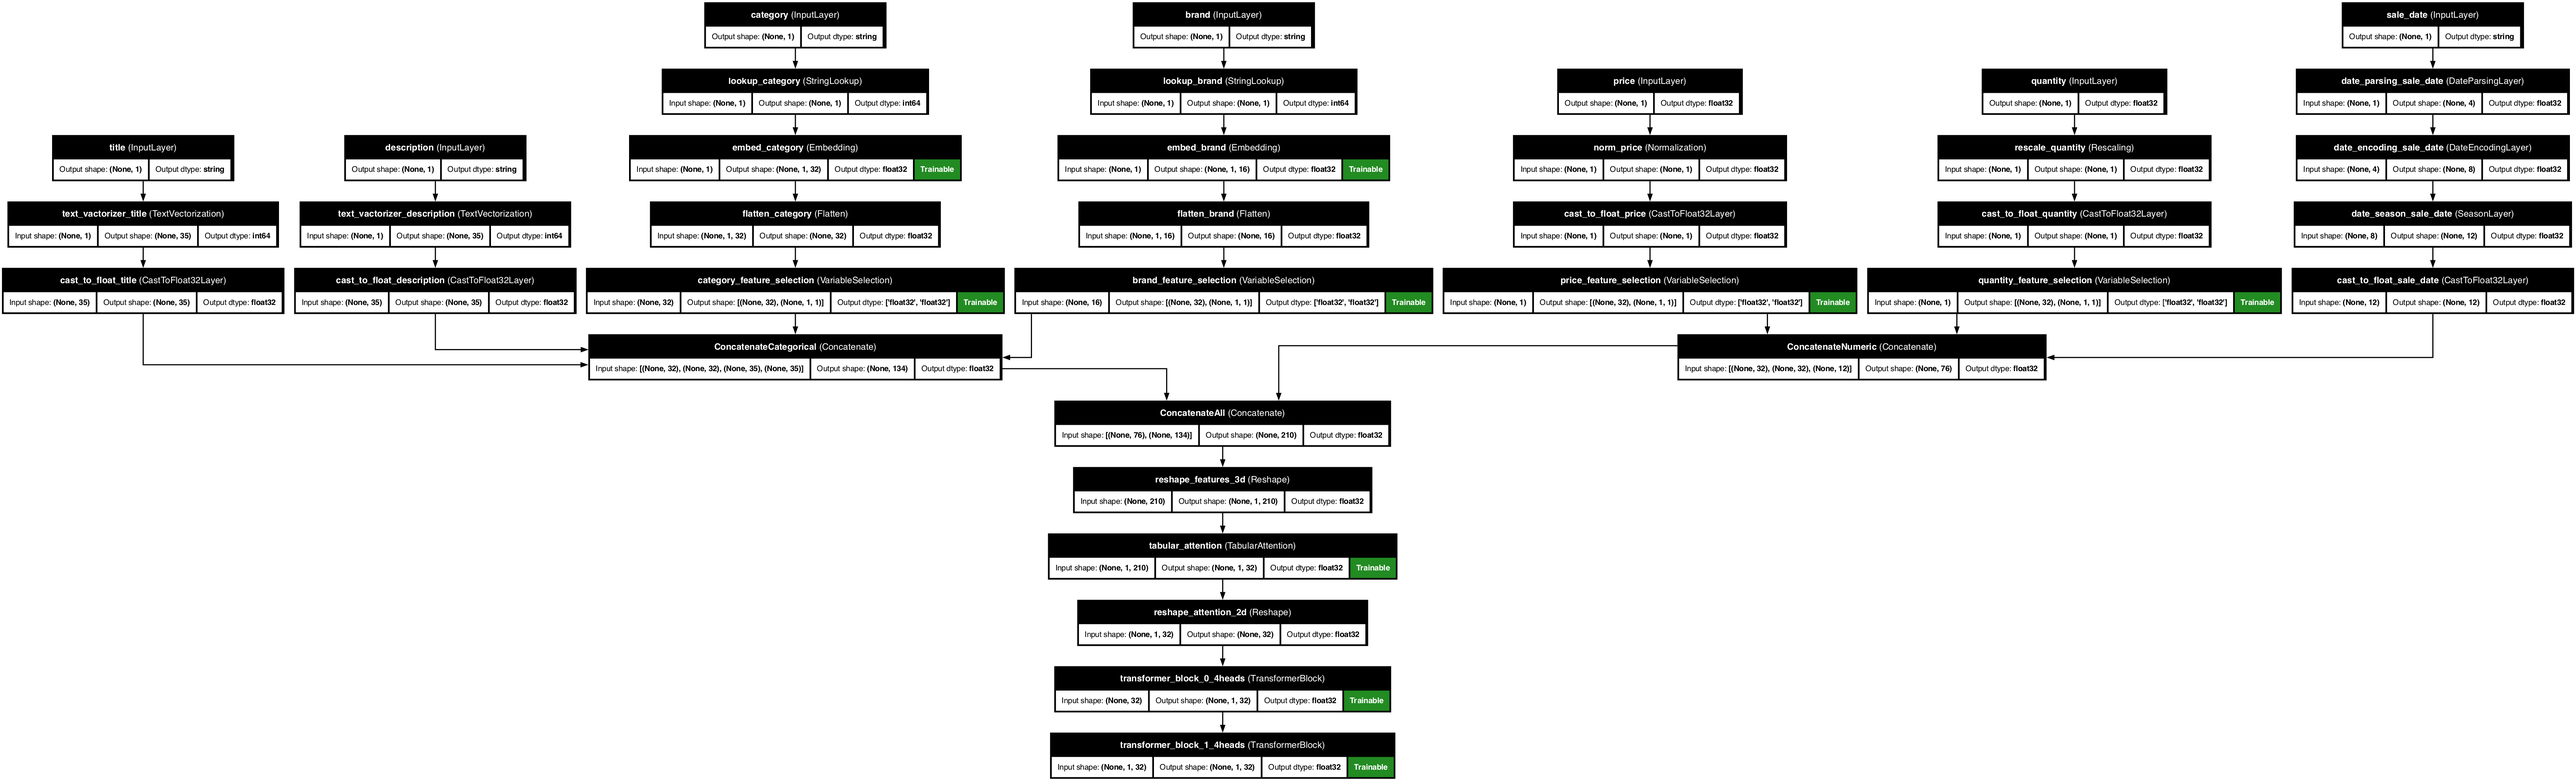
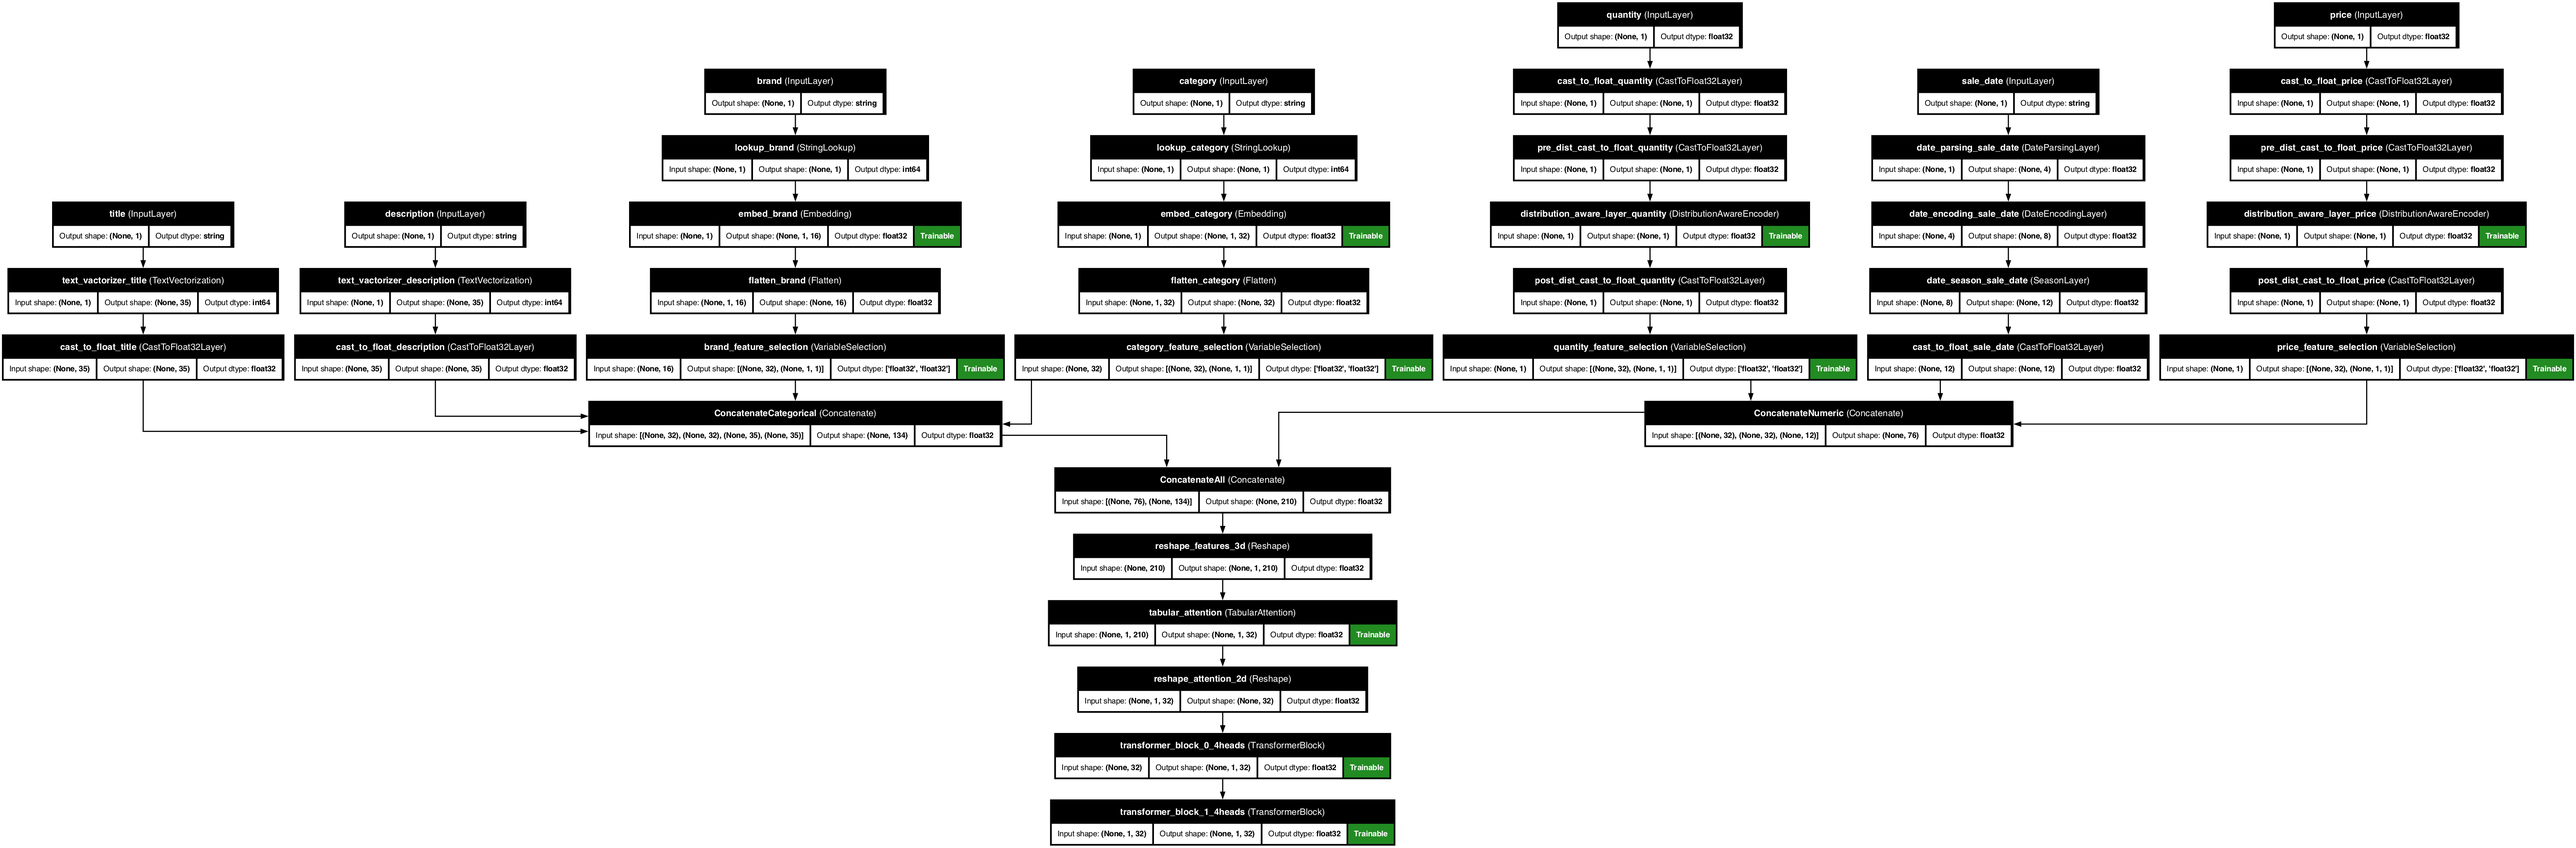
docs(KDP): added docs

Changed region(s): [[0.0, 0.0, 1.0, 0.9917]]

diff --git a/docs/distribution_aware_encoder.md b/docs/distribution_aware_encoder.md
@@ -66,11 +66,6 @@ The Distribution-Aware Encoder is an advanced preprocessing layer that automatic
     - Handled via rate parameter estimation
     - Detection: Integer values and variance≈mean
 
-13. **Weibull Distribution**
-    - For lifetime/failure data
-    - Handled via Weibull CDF
-    - Detection: Shape and scale analysis
-
 14. **Cauchy Distribution**
     - For extremely heavy-tailed data
     - Handled via robust location-scale estimation
@@ -81,26 +76,58 @@ The Distribution-Aware Encoder is an advanced preprocessing layer that automatic
     - Handled via mixture model approach
     - Detection: Zero proportion analysis
 
-16. **Bounded Distribution**
-    - For data with known bounds
-    - Handled via scaled beta transformation
-    - Detection: Value range analysis
-
-17. **Ordinal Distribution**
-    - For ordered categorical data
-    - Handled via learned mapping
-    - Detection: Discrete ordered values
-
 ## Usage
 
 ### Basic Usage
+
+The capability only works with numerical features!
+
 ```python
 from kdp.processor import PreprocessingModel
+from kdp.features import NumericalFeature
 
-preprocessor = PreprocessingModel(
-    features_stats=stats,
-    features_specs=specs,
+# Define features
+features = {
+    # Numerical features
+    "feature1": NumericalFeature(),
+    "feature2": NumericalFeature(),
+    # etc ..
+}
+
+# Initialize the model
+model = PreprocessingModel( # here
+    features=features,
     use_distribution_aware=True
+)
+```
+
+### Manual Usage
+
+```python
+from kdp.processor import PreprocessingModel
+from kdp.features import NumericalFeature
+
+# Define features
+features = {
+    # Numerical features
+    # Numerical features
+    "feature1": NumericalFeature(
+        name="feature1",
+        feature_type=FeatureType.FLOAT_NORMALIZED
+    ),
+    "feature2": NumericalFeature(
+        name="feature2",
+        feature_type=FeatureType.FLOAT_RESCALED
+        prefered_distribution="log_normal" # here we could specify a prefered distribution (normal, periodic, etc)
+    )
+    # etc ..
+}
+
+# Initialize the model
+model = PreprocessingModel( # here
+    features=features,
+    use_distribution_aware=True,
+    distribution_aware_bins=1000, # 1000 is the default value, but you can change it for finer data
 )
 ```
 
@@ -271,40 +298,6 @@ The DistributionAwareEncoder is integrated into the numeric feature processing p
    - Use appropriate batch sizes
    - Enable caching for repeated processing
    - Adjust mixture components based on data
-
-## Example Use Cases
-
-### 1. Financial Data
-```python
-# Handle heavy-tailed return distributions
-preprocessor = PreprocessingModel(
-    use_distribution_aware=True,
-    handle_sparsity=False,
-    mixture_components=2
-)
-```
-
-### 2. Temporal Data
-```python
-# Handle periodic patterns
-preprocessor = PreprocessingModel(
-    use_distribution_aware=True,
-    detect_periodicity=True,
-    adaptive_binning=True
-)
-```
-
-### 3. Sparse Features
-```python
-# Handle sparse categorical data
-preprocessor = PreprocessingModel(
-    use_distribution_aware=True,
-    handle_sparsity=True,
-    mixture_components=1
-)
-```
-
-## Monitoring and Debugging
 
 ### Distribution Detection
 ```python

diff --git a/docs/example_usages.md b/docs/example_usages.md
@@ -288,3 +288,74 @@ print("Feature importances:", feature_importances)
 
 Here is the plot of the model:
 ![Complex Model](imgs/complex_model.png)
+
+
+## Example 4: Numerical features with distribution aware encoder
+
+Normally the distribution aware encoder works well in automatic mode, once use_distribution_aware=True is set.
+However we can also manually set the prefered distribution for each numerical feature if we would like to.
+
+```python
+from kdp.features import NumericalFeature, FeatureType
+from kdp.processor import PreprocessingModel, OutputModeOptions
+
+# Define features
+features = {
+    # 1. Default automatic distribution detection
+    "basic_float": NumericalFeature(
+        name="basic_float",
+        feature_type=FeatureType.FLOAT,
+    ),
+
+    # 2. Manually setting a gamma distribution
+    "rescaled_float": NumericalFeature(
+        name="rescaled_float",
+        feature_type=FeatureType.FLOAT_RESCALED,
+        scale=2.0,
+        prefered_distribution="gamma"
+    ),
+    # 3. Custom preprocessing pipeline with a custom set normal distribution
+    "custom_float": NumericalFeature(
+        name="custom_float",
+        feature_type=FeatureType.FLOAT,
+        preprocessors=[
+            tf.keras.layers.Rescaling,
+            tf.keras.layers.Normalization,
+        ],
+        bin_boundaries=[0.0, 1.0, 2.0],
+        mean=0.0,
+        variance=1.0,
+        scale=4.0,
+        prefered_distribution="normal"
+    ),
+}
+
+# Now we can create a preprocessing model with the features
+ppr = PreprocessingModel(
+    path_data="sample_data.csv",
+    features_specs=features,
+    features_stats_path="features_stats.json",
+    overwrite_stats=True,
+    output_mode=OutputModeOptions.CONCAT,
+
+    # Add feature selection to get the most important features
+    feature_selection_placement="numeric", # Choose between (all_features|numeric|categorical)
+
+    # Add tabular attention to check for feature interactions
+    tabular_attention=True,
+
+    # Add distribution aware encoder
+    use_distribution_aware=True
+)
+
+# Build the preprocessor
+result = ppr.build_preprocessor()
+
+# Transform data using direct model prediction
+transformed_data = ppr.model.predict(test_batch)
+
+# Get feature importances
+feature_importances = ppr.get_feature_importances()
+```
+Here is the plot of the model:
+![Complex Model](imgs/numerical_example_model_with_distribution_aware.png)

diff --git a/docs/complex_example.md b/docs/complex_example.md
@@ -24,6 +24,7 @@ features = {
     "quantity": NumericalFeature(
         name="quantity",
         feature_type=FeatureType.FLOAT_RESCALED
+        prefered_distribution="poisson" # here we could specify a prefered distribution (normal, periodic, etc)
     ),
 
     # Categorical features
@@ -118,6 +119,10 @@ ppr = PreprocessingModel(
     feature_selection_placement="all_features", # Choose between (all_features|numeric|categorical)
     feature_selection_units=32,
     feature_selection_dropout=0.15,
+
+    # Distribution aware configuration
+    use_distribution_aware=True, # here we activate the distribution aware encoder
+    distribution_aware_bins=1000, # thats the default value, but you can change it for finer data
 )
 
 # Build the preprocessor

diff --git a/docs/quick_start.md b/docs/quick_start.md
@@ -31,6 +31,7 @@ model = PreprocessingModel(
     features=features,
     tabular_attention=True,  # Enable attention mechanism
     feature_selection=True   # Enable feature selection
+    use_distribution_aware=True # Enable distribution aware encoder
 )
 ```
 
